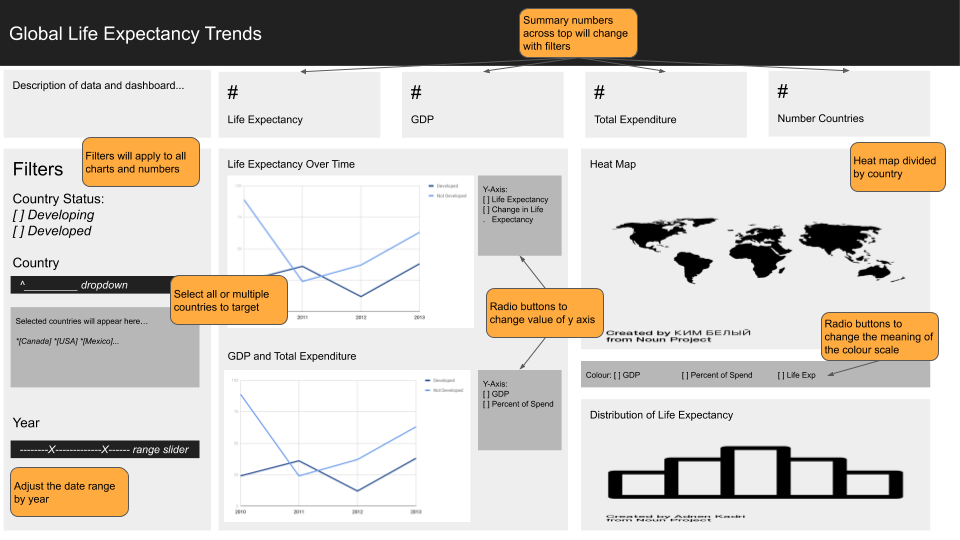
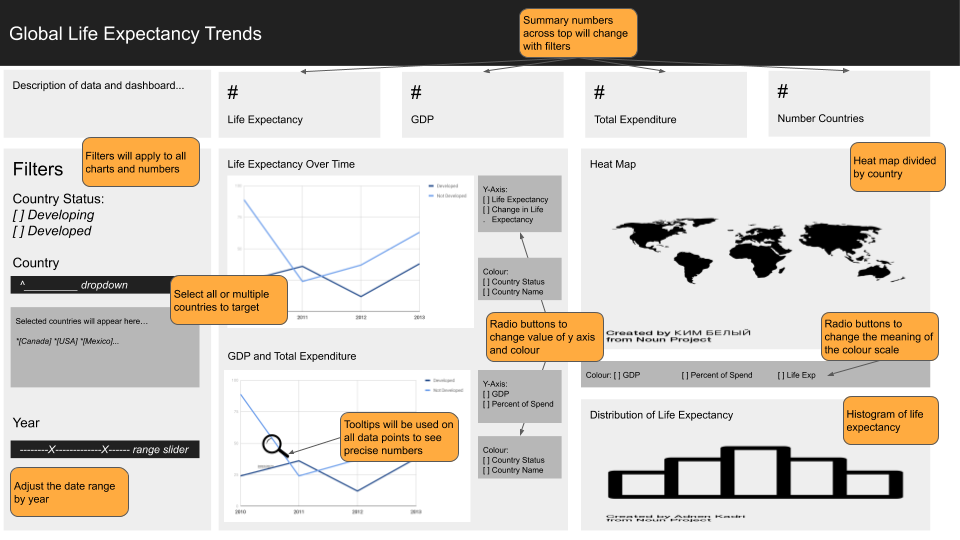
added the app description and sketch to README.

diff --git a/README.md b/README.md
@@ -1,16 +1,42 @@
-# L01 Group101 Submission
+# Life Expectancy Dashboard
 
-Lab 01 Group 101 submission for class DSCI 532 at UBC.
+## Background
 
-## Submission Details
+This repo was created as a submission for class DSCI 532 as part of the Masters of Data Science program at the University of British Columbia.
 
-### Milestone 1:
+Team members (lab 1, group 101):University
+
+- Jake Lee
+- Sam Edwardes
+- Zoe Pan
+
+## Milestone 1:
 
 - [Project Proposal](docs/proposal.md)
 - [Code of Conduct](docs/team-code-of-conduct.md)
+- [App Description and Sketch](#app-description-and-sketch)
+
+## Milestone 2:
+
+Under development
+
+## Milestone 3:
+
+Under development
+
+## Milestone 4:
+
+Under development
+
+## App Description and Sketch
+
+The app contains one page that includes four main plots and four summary statistics. The left column of plots visualize `life expectancy`, `change in life expectancy`, `GDP` (gross domestic product), and `percentage of GDP spent on health` over time. The right column of plots includes a geographic heat map that can compare `life expectancy`, `GDP`, or `percentage of GDP spent on health` and a histogram of the distribution of life expectancy.
+
+One of the most interesting features of this dashboard is the ability to change the variable each plot explores. By allowing the user to choose the variable of the y-axis and colour for time series plots, and the colour variable for the heat map, users are able to answer many potential questions with a limited number of plots and screen real estate.
+
+The dashboard will also include interactive elements. Tooltips will be used on all data points to allow the user to see precise values. The summary numbers at the top of the dashboard will serve as a “grounding point” so the user can easily compare individual observations to in view averages. Users are also able to filter the entire dashboard based on `country status` (developing or not developing), `country`, and a range of `years`.
+
+![app-sketch](assets/dashboard_sketch_01.png)
 
 
-### Description and Sketch
-- TO DO
 
-Team members: Jake Lee, Sam Edwardes, Zoe Pan
